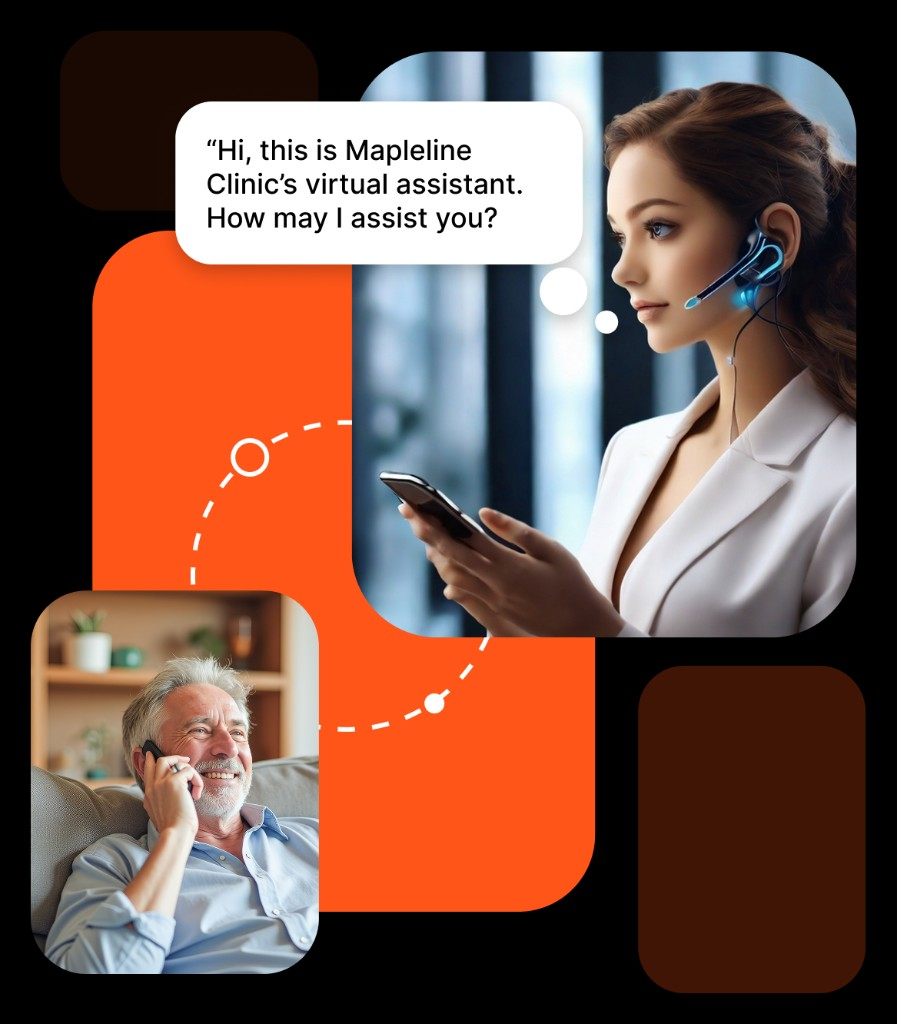
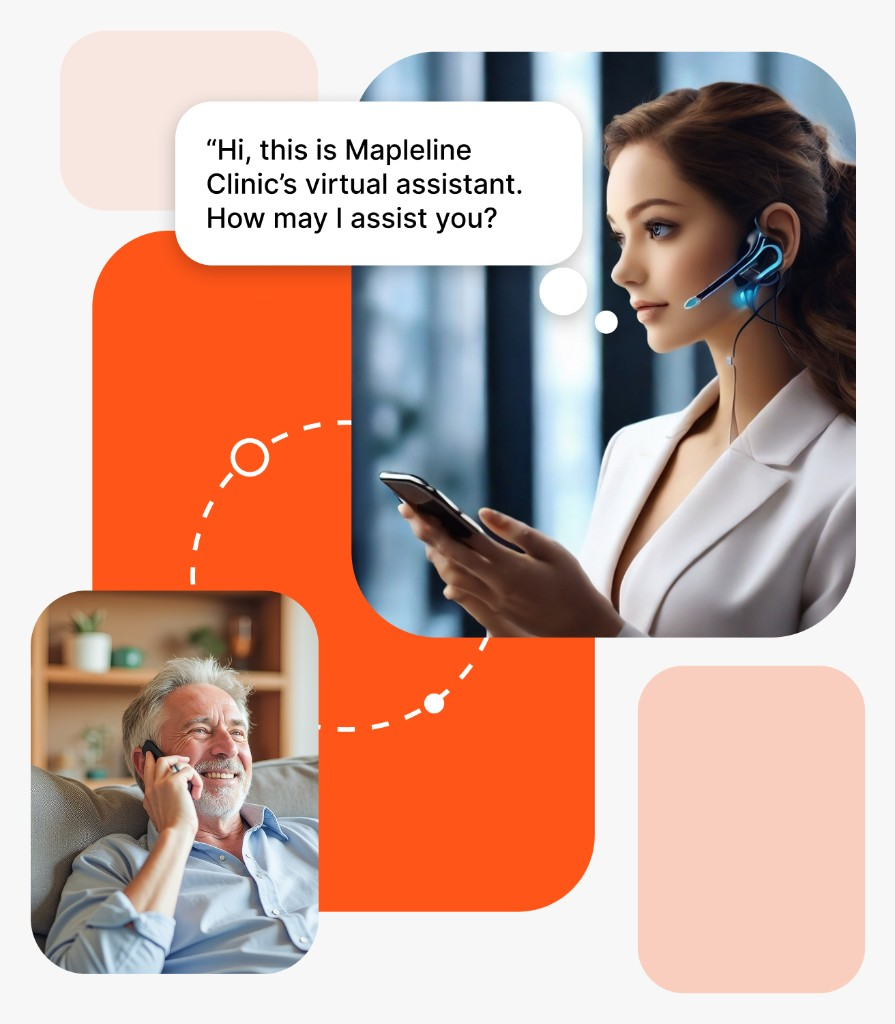
Update hero image: light background with virtual assistant design (650px height)

diff --git a/src/components/HeroSection.tsx b/src/components/HeroSection.tsx
@@ -68,7 +68,7 @@ const HeroSection = () => {
               src={`${import.meta.env.BASE_URL || "/"}hero_image.png`}
               alt="MapleLine - 24/7 AI voice receptionist for Canadian clinics"
               className="max-w-full h-auto animate-fade-in object-contain"
-              style={{ maxHeight: "500px" }}
+              style={{ height: "650px", objectFit: "contain" }}
             />
           </div>
         </div>
